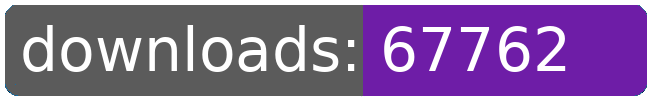
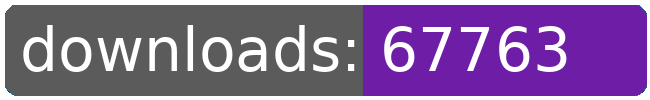
dl log written

Changed region(s): [[0.8308, 0.42, 0.8923, 0.72], [0.8, 0.27, 0.8615, 0.33]]

diff --git a/README.md b/README.md
@@ -21,8 +21,8 @@
 		<td>4436</td>
 		<td>4464</td>
 		<td>4500</td>
-		<td>4519</td>
-		<td>+ 19</td>
+		<td>4520</td>
+		<td>+ 20</td>
 	</tr>
 	<tr>
 		<td>aberrant.kahet.outfitter</td>
@@ -274,8 +274,8 @@
 		<td></td>
 		<td></td>
 		<td></td>
-		<td>67762</td>
-		<td>317</td>
+		<td>67763</td>
+		<td>318</td>
 	</tr>
 </table>
 </sub></sup>
@@ -311,8 +311,8 @@
 		<td>4436</td>
 		<td>4464</td>
 		<td>4500</td>
-		<td>4519</td>
-		<td>+ 19</td>
+		<td>4520</td>
+		<td>+ 20</td>
 	</tr>
 	<tr>
 		<td>bunrodeaoutfitter</td>
@@ -553,8 +553,8 @@
 		<td></td>
 		<td></td>
 		<td></td>
-		<td>67762</td>
-		<td>317</td>
+		<td>67763</td>
+		<td>318</td>
 	</tr>
 </table>
 </sub></sup>
